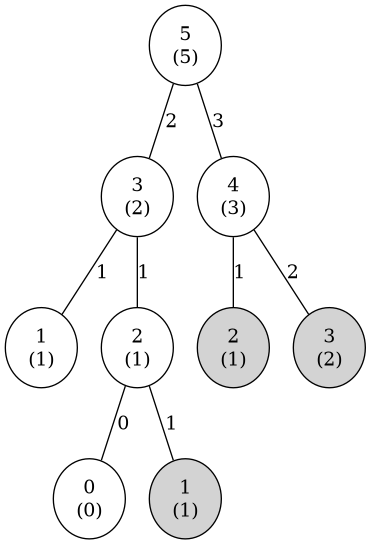
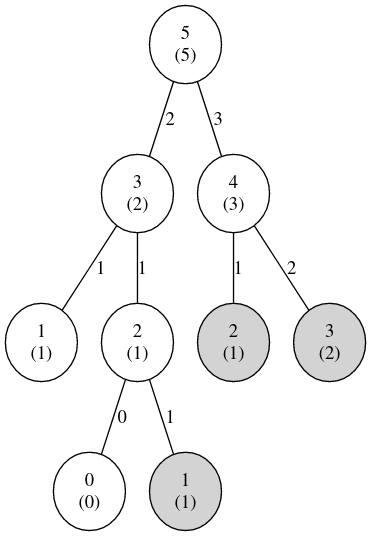
💄 (graphviz): Removed images background

diff --git a/posts/ebpf.md b/posts/ebpf.md
@@ -1,5 +1,5 @@
 ---
-title: eBPF essentials
+title: My eBPF exploration
 date: "2024-01-11"
 ---
 
@@ -16,6 +16,8 @@ date: "2024-01-11"
 &nbsp;
 
 Having discovered eBPF and read a few books about it, I'm writing here the essentials to remember about the basics. It's mainly a mix of my personal notes from the books "Learning eBPF" by Liz Rice and "Linux Observability with BPF" by David Calavera. The aim is to write down the essentials without going into too much technical detail, a sort of memo.
+
+You can find my eBPF (XDP) projects at the bottom of the page.
 &nbsp;
 
 ## What is eBPF ?
